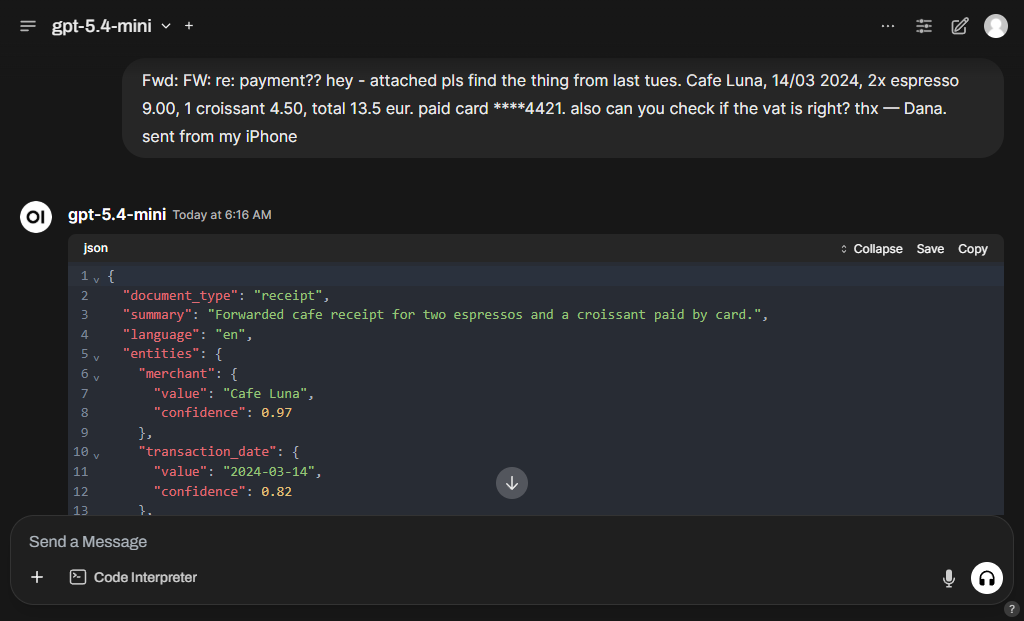
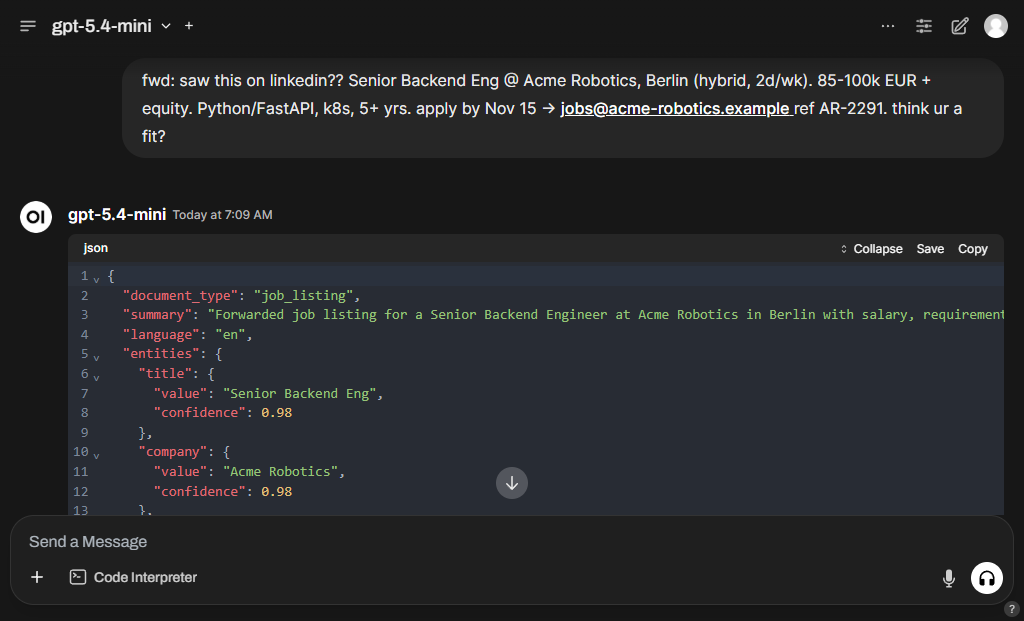
docs: configuration reference, accurate log and error wording, demo inputs distinct from the prompt example, screenshots retaken

diff --git a/middleware/app/static/index.html b/middleware/app/static/index.html
@@ -68,7 +68,7 @@
   <section class="try">
     <h2>Try the proxy</h2>
     <p>Sent through <code>POST /v1/chat/completions</code> with the system prompt injected, streamed back as it arrives.</p>
-    <textarea id="input">Fwd: payment - Hi, attached the receipt from Cafe Luna, 14/03 2024, 2x espresso 9.00, 1 croissant 4.50, total 13.5 eur. paid by card ****4421. - Dana</textarea>
+    <textarea id="input">Dr. Levi, 2026-02-11: pt reports mild headache x3 days, BP 128/82, no fever. advised hydration + rest, f/u in 2 wks or sooner if worse.</textarea>
     <div class="row">
       <select id="model" aria-label="Model"></select>
       <button id="send">Send</button>

diff --git a/middleware/app/logging_config.py b/middleware/app/logging_config.py
@@ -17,7 +17,7 @@ def order_keys(_: WrappedLogger, __: str, event_dict: EventDict) -> EventDict:
 
 def configure_logging(level: str, *, json: bool) -> None:
     renderer: Processor = (
-        structlog.processors.JSONRenderer() if json else structlog.dev.ConsoleRenderer()
+        structlog.processors.JSONRenderer() if json else structlog.dev.ConsoleRenderer(colors=False)
     )
     structlog.configure(
         processors=[

diff --git a/README.md b/README.md
@@ -51,6 +51,28 @@ cp .env.example .env          # then edit OPENAI_API_KEY
 docker compose up -d --build
 ```
 
+### Configuration
+
+Everything is read from `.env`; `.env.example` lists the same keys with these defaults. After changing a value, `docker compose up -d` applies it (a plain `restart` does not re-read `.env`).
+
+| Variable | Default | Meaning |
+| --- | --- | --- |
+| `OPENAI_API_KEY` | required | Your key. Only the middleware ever sees it. |
+| `OPENAI_BASE_URL` | `https://api.openai.com/v1` | Upstream to forward to; any OpenAI-compatible endpoint works. |
+| `OPENAI_MODELS` | `gpt-6-luna,gpt-5.6-luna,gpt-5.4-mini` | Allowlist shown to Open WebUI. Empty means every model the key can see. If none of the names exist on your account, `/v1/models` returns an empty list and the log says `models.allowlist_matched_nothing`. |
+| `LOG_LEVEL` | `INFO` | Standard Python level names; anything else fails at startup with the allowed list. |
+| `LOG_JSON` | `true` | `false` prints the same events as aligned text, see [Reading the logs](#reading-the-logs). |
+| `UPSTREAM_CONNECT_TIMEOUT` | `10` | Seconds to establish a connection to OpenAI. |
+| `UPSTREAM_READ_TIMEOUT` | `120` | Seconds to wait for OpenAI between bytes; raise it for slow reasoning models. |
+| `READINESS_TIMEOUT` | `5` | Budget for the `/ready` probe. |
+| `OPEN_WEBUI_PORT` | `3000` | Host port for Open WebUI, bound to `127.0.0.1`. |
+| `MIDDLEWARE_PORT` | `8000` | Host port for the middleware, bound to `127.0.0.1`. |
+| `WEBUI_AUTH` | `false` | Open WebUI login screen off for local use. The smoke test's end-to-end step needs it off. |
+| `WEBUI_SECRET_KEY` | `local-dev-secret` | Open WebUI session signing key. |
+| `POSTGRES_USER`, `POSTGRES_PASSWORD`, `POSTGRES_DB` | `openwebui` | Database credentials, used only inside the compose network. |
+
+Both published ports bind to loopback, so nothing on your network can reach the stack or spend your key.
+
 ### Getting an OpenAI API key
 
 The stack needs your own key; none is bundled. At <https://platform.openai.com>:
@@ -84,9 +106,9 @@ This is the path the assignment describes, `User -> Open WebUI -> Middleware -> 
 
 ![One request captured at both ends: the browser payload with no system message, and the middleware log showing the injection](docs/flow.png)
 
-![A forwarded receipt turned into the extraction envelope](docs/extraction.png)
+![A forwarded job listing turned into the extraction envelope](docs/extraction.png)
 
-Ask a follow-up such as "what was the total?" and the reply is prose referring to the extracted fields.
+Ask a follow-up such as "what is the salary range?" and the reply is prose referring to the extracted fields.
 
 ![A follow-up question answered in prose, citing the extracted fields and their confidence](docs/follow-up.png)
 
@@ -96,21 +118,23 @@ Ask a follow-up such as "what was the total?" and the reply is prose referring t
 
 | Event | Fields | Meaning |
 | --- | --- | --- |
+| `app.started` | `upstream`, `models`, `system_prompt_chars` | Once at boot: what it forwards to and which prompt it loaded |
 | `request.started` | `method`, `path` | Request accepted |
 | `chat.request` | `model`, `stream`, `messages_in`, `messages_out`, `system_prompt_injected` | Prompt prepended; one more message leaves than arrived |
 | `upstream.first_byte` | `ttft_ms` | OpenAI started answering; time to first token |
 | `upstream.stream_completed` | `duration_ms`, `prompt_tokens`, `completion_tokens`, `total_tokens` | Stream finished, usage read off the final chunk |
+| `chat.completed` | `prompt_tokens`, `completion_tokens`, `total_tokens` | Non-streaming equivalent of the line above |
 | `request.completed` | `status_code`, `duration_ms` | Response fully sent |
 
-Failures get their own events at `warning` level and never hide the status: `upstream.error` (`status_code`, `error_type`, `error`) for an OpenAI 4xx or 5xx relayed as is, a 502 for a connection failure or a 504 for a timeout; `upstream.stream_failed` when the connection drops mid-stream, after which the client receives an SSE error event and `[DONE]`; `readiness.failed` when `/ready` cannot reach OpenAI and answers 503.
+Failures get their own events at `warning` level and never hide the status: `upstream.error` (`status_code`, `error_type`, `error`) when OpenAI answers 4xx or 5xx, which is relayed with the same status, message and type in the OpenAI error shape, or when the connection fails (502) or times out (504); `upstream.stream_failed` (`error_type`, `error`) when the connection drops mid-stream, after which the client receives an SSE error event carrying the same 502 or 504 classification, then `[DONE]`; `readiness.failed` when `/ready` cannot reach OpenAI and answers 503.
 
-Logs are JSON by default so they can be shipped anywhere. For reading them as text, set `LOG_JSON=false` in `.env` and restart:
+Logs are JSON by default so they can be shipped anywhere. For reading them as text, set `LOG_JSON=false` in `.env` and run `docker compose up -d middleware`. The same run with a rejected key then looks like this (keys are sorted alphabetically by the renderer):
 
 ```text
-04:51:11.109 [info     ] request.started      method=POST path=/v1/chat/completions request_id=c0e82dd3...
-04:51:11.114 [info     ] chat.request         messages_in=1 messages_out=2 model=gpt-5.4-mini stream=True system_prompt_injected=True request_id=c0e82dd3...
-04:51:11.462 [warning  ] upstream.error       error='Incorrect API key provided: sk-inval*********pose.' error_type=invalid_request_error status_code=401 request_id=c0e82dd3...
-04:51:11.468 [info     ] request.completed    duration_ms=361 status_code=401 request_id=c0e82dd3...
+2026-10-30T04:51:11.109566Z [info     ] request.started                method=POST path=/v1/chat/completions request_id=c0e82dd3c9214a42a4a5e67c3d5cdecd
+2026-10-30T04:51:11.114973Z [info     ] chat.request                   messages_in=1 messages_out=2 model=gpt-5.4-mini request_id=c0e82dd3c9214a42a4a5e67c3d5cdecd stream=True system_prompt_injected=True
+2026-10-30T04:51:11.462450Z [warning  ] upstream.error                 error='Incorrect API key provided: sk-inval*********pose. You can find your API key at https://platform.openai.com/account/api-keys.' error_type=invalid_request_error request_id=c0e82dd3c9214a42a4a5e67c3d5cdecd status_code=401
+2026-10-30T04:51:11.468500Z [info     ] request.completed              duration_ms=361 request_id=c0e82dd3c9214a42a4a5e67c3d5cdecd status_code=401
 ```
 
 ### Verification tooling: the middleware address
@@ -179,9 +203,9 @@ The prompt and the reasoning behind it, with the edge cases it was tested agains
 
 - **Prompt injected server-side, not in Open WebUI.** The contract holds for every client of the middleware, and it cannot be edited away in the UI. It is prepended as the first message, so a per-model system prompt configured in Open WebUI still arrives and is simply subordinate.
 - **Streaming is a byte passthrough.** Upstream SSE chunks are relayed as they arrive rather than parsed and re-serialised, so time to first token matches the upstream and no OpenAI field is accidentally dropped. Usage is read off the stream in parallel for logging, which is why `stream_options.include_usage` is injected when the caller did not ask for it.
-- **Failures stay in the OpenAI error shape.** Upstream 4xx and 5xx keep their status and body; connect errors become 502 and timeouts 504. A failure that happens mid-stream cannot change the status code, so it is emitted as an SSE error event followed by `[DONE]`, which Open WebUI renders instead of hanging.
+- **Failures stay in the OpenAI error shape.** Upstream 4xx and 5xx keep their status, message and type; connect errors become 502 and timeouts 504; a 200 with an unparseable body is a 502 rather than a crash. A failure that happens mid-stream cannot change the status code, so it is emitted as an SSE error event followed by `[DONE]`, which Open WebUI renders instead of hanging.
 - **Two kinds of health.** `/health` answers whether the process is alive, `/ready` whether it can actually serve traffic. Compose gates Open WebUI on the container healthcheck so the model list is never fetched from a dead middleware.
-- **Background generation disabled.** Open WebUI 0.6.5 generates chat titles, tags and follow-ups through the same chat endpoint, which the extractor prompt would answer with JSON. Those features are turned off in compose so the behaviour is predictable; the trade-off is noted rather than hidden.
+- **Background generation disabled.** Open WebUI 0.6.5 generates chat titles, tags, autocomplete and search queries through the same chat endpoint, which the extractor prompt would answer with JSON. Those features are turned off in compose so the behaviour is predictable; the trade-off is noted rather than hidden.
 - **Config is environment-only and persistent config is off.** `OPENAI_API_BASE_URL` is an Open WebUI `ConfigVar` that would otherwise be frozen at first boot, which makes a container rebuild silently ignore `.env`.
 - **PostgreSQL over SQLite.** The assignment asks for a database service, and it also matches how Open WebUI is meant to run outside single-user setups.
 
@@ -190,10 +214,10 @@ The prompt and the reasoning behind it, with the edge cases it was tested agains
 ### Tests without installing anything
 
 ```bash
-make test-docker           # or: docker build --target test --progress=plain middleware
+make test-docker           # or: docker build --target test --no-cache-filter test --progress=plain middleware
 ```
 
-The image has a `test` stage that runs the linter, the type checker and the unit tests with the dev dependencies, then stops. It exits non-zero on any failure and leaves nothing on the host. CI runs this same stage.
+The image has a `test` stage that runs the linter, the type checker and the unit tests with the dev dependencies, then stops. It exits non-zero on any failure and leaves nothing on the host. `--no-cache-filter test` makes Docker rerun the tests instead of printing `CACHED` on a second run. CI runs this same stage. `make` is a convenience throughout; every target is the one-line command shown next to it.
 
 ### Tests on the host
 
@@ -207,7 +231,7 @@ make test                         # from the repo root
 cd middleware && uv run pytest    # the same, without make
 ```
 
-The first run syncs the environment, then 37 tests run in about a second. Coverage is printed with missing lines and the run fails below 90%. OpenAI is mocked with `respx`, so the tests need no key and no network. Useful variants:
+The first run syncs the environment, then 42 tests run in about a second. Coverage is printed with missing lines and the run fails below 90%. OpenAI is mocked with `respx`, so the tests need no key and no network. Useful variants:
 
 ```bash
 uv run pytest -v                                  # one line per test
@@ -218,10 +242,10 @@ uv run pytest -k timeout                          # tests matching a keyword
 | File | Covers |
 | --- | --- |
 | `test_prompt.py` | Prompt is prepended, a caller's system message survives, caller messages are not mutated, `SYSTEM_PROMPT.md` matches the shipped prompt. |
-| `test_chat_completions.py` | Non-streaming and streaming passthrough, `stream_options` handling, upstream 400/401/429/500 relayed with status, timeout to 504, connect error to 502, mid-stream failure to SSE error plus `[DONE]`, invalid body rejected. |
+| `test_chat_completions.py` | Non-streaming and streaming passthrough, `stream_options` handling, the `chat.request` log line, upstream 400/401/429/500 relayed with status, timeout to 504, connect error to 502, non-JSON success body to 502, mid-stream drop and mid-stream timeout to SSE error plus `[DONE]`, invalid body rejected. |
 | `test_streaming.py` | Usage parsed from the final SSE event, events split across chunks, malformed lines ignored. |
-| `test_models_and_health.py` | Model allowlist, `/health` never calls upstream, `/ready` states, status page, request id echoed or generated. |
-| `test_config.py` | Comma-separated models, key required, key never appears in repr. |
+| `test_models_and_health.py` | Model allowlist, `/health` never calls upstream, `/ready` states, status page, request id echoed or generated, lifecycle and failure events in order, text log renderer. |
+| `test_config.py` | Comma-separated models, log level validated, key required, key never appears in repr. |
 
 ### Lint, types and the full check
 

diff --git a/RUNBOOK.md b/RUNBOOK.md
@@ -49,10 +49,10 @@ Open <http://localhost:8000>: all three cards show a green dot and Send returns 
 Open <http://localhost:3000>, pick a model, paste:
 
 ```text
-Fwd: payment - Hi, attached the receipt from Cafe Luna, 14/03 2024, 2x espresso 9.00, 1 croissant 4.50, total 13.5 eur. paid by card ****4421. - Dana
+fwd: saw this on linkedin?? Senior Backend Eng @ Acme Robotics, Berlin (hybrid, 2d/wk). 85-100k EUR + equity. Python/FastAPI, k8s, 5+ yrs. apply by Nov 15 -> jobs@acme-robotics.example ref AR-2291. think ur a fit?
 ```
 
-Expect a JSON reply with `document_type: "receipt"` and a confidence per field. Then ask `what was the total?` and expect one sentence of prose citing the extracted amount. Confirm the request went through the middleware:
+Expect a JSON reply with `document_type: "job_listing"` and a confidence per field; the deadline has no year, so expect it under `uncertain_fields` or flagged in `notes`. Then ask `what is the salary range, and how sure are you about the deadline?` and expect prose citing the extracted values and their confidence. This text is deliberately not the receipt used as the example inside the prompt, so the model is extracting, not recalling. Confirm the request went through the middleware:
 
 ```bash
 docker compose logs middleware | grep chat.request | tail -n 2
@@ -65,10 +65,10 @@ Expect two lines, one per message, with `"messages_in": 1, "messages_out": 2` an
 ## 5. Run the unit tests, linter and type checker
 
 ```bash
-make test-docker          # or: docker build --target test --progress=plain middleware
+make test-docker          # or: docker build --target test --no-cache-filter test --progress=plain middleware
 ```
 
-No local Python is used. Expect `36 passed, 1 skipped`, a coverage total above 90%, and an exit code of 0. The skipped test compares `SYSTEM_PROMPT.md` with the shipped prompt and needs the repository root, so it runs on the host and in CI. The same checks run on the host with `make check` if `uv` is installed; see the README.
+No local Python is used. Expect `41 passed, 1 skipped`, a coverage total above 90%, and an exit code of 0. The skipped test compares `SYSTEM_PROMPT.md` with the shipped prompt and needs the repository root, so it runs on the host and in CI. The same checks run on the host with `make check` if `uv` is installed; see the README.
 
 ## 6. Stop
 

diff --git a/SYSTEM_PROMPT.md b/SYSTEM_PROMPT.md
@@ -74,7 +74,7 @@ The final prompt was run through the middleware against `gpt-6-luna`, `gpt-5.6-l
 | Purchase order with repeated line items | `purchase_order`, line items as an array of leaf objects |
 | Follow-up correcting a date | Prose citing `entities.total` with its confidence, correction applied in the answer |
 
-The receipt and follow-up shown in the README screenshots were produced through Open WebUI itself, not by calling the API directly.
+The screenshots in the README were produced through Open WebUI itself, not by calling the API directly, and they use a job listing and a clinical note rather than the receipt that serves as the example inside the prompt, so they show extraction rather than recall of the example.
 
 ## The prompt
 
